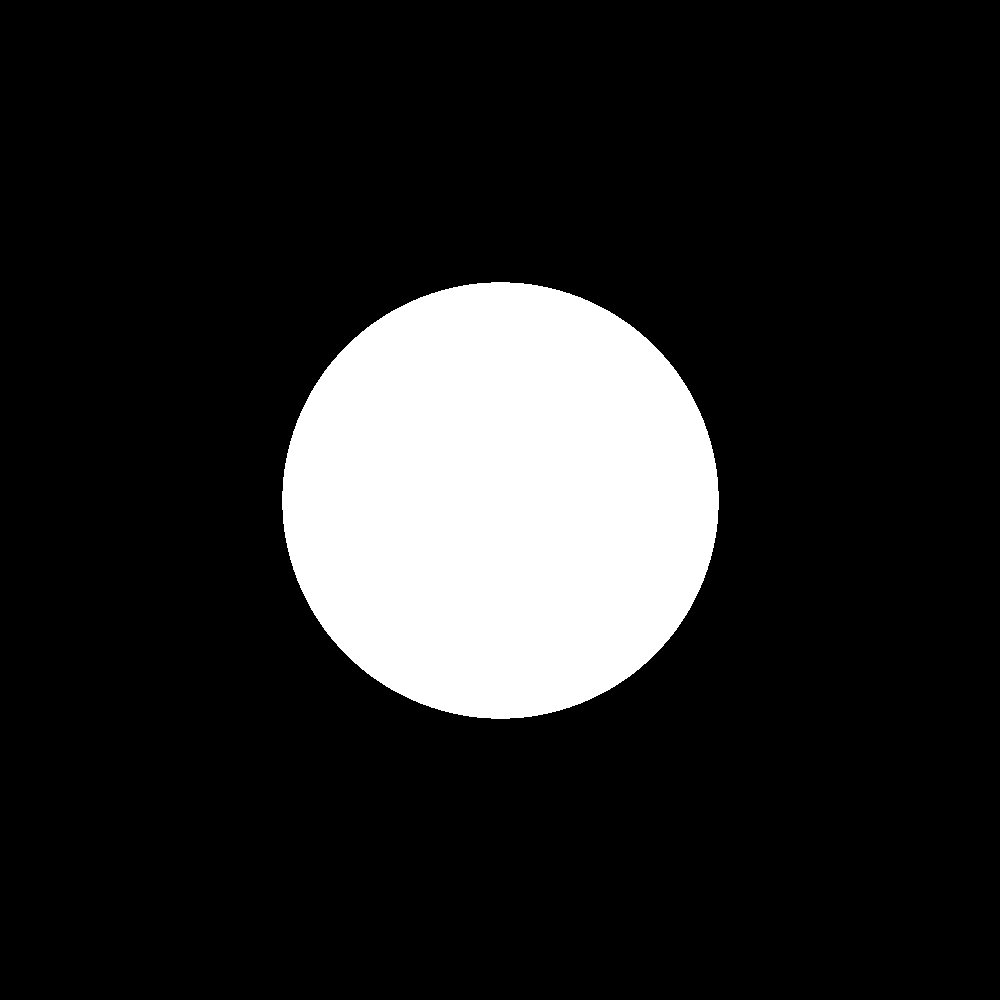
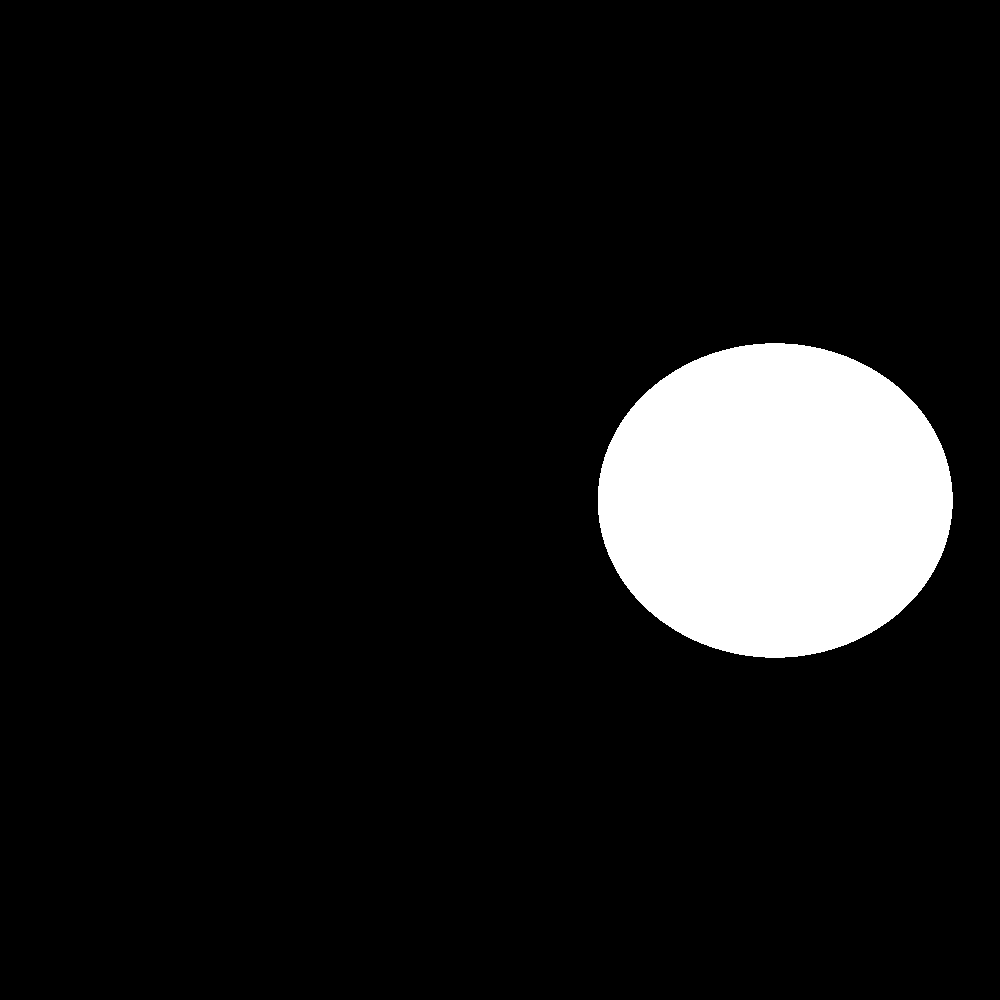
Display images to screen

Changed region(s): [[0.279, 0.279, 0.961, 0.744]]

diff --git a/Rendering.h b/Rendering.h
@@ -4,23 +4,50 @@
 
 #include "Const.h"
 
+#include <Windows.h>
 #include <amp.h>
 using namespace concurrency;
 
-Color* RenderScene() {
-	Color* rgb = (Color*)malloc(px*py*sizeof(Color));
+#include "GL/glut.h"
+#include "GL/freeglut.h"
 
+Color* RenderScene(Color* rgb) {
 	array_view<Color, 2> ColorView(px, py, rgb);
 
 	parallel_for_each(
 		ColorView.extent,
 		[=](index<2> idx) restrict(amp) {
-			Sphere s = Sphere();
-			ColorView[idx[0]][idx[1]] = s.RenderRay(idx);
+			ColorView[idx[0]][idx[1]] = Sphere().RenderRay(idx);
 		}
 	);
 
 	ColorView.synchronize();
 
 	return rgb;
+}
+
+Color* rgb;
+
+void drawFrame()
+{
+	glDrawPixels(px, py, GL_RGBA, GL_UNSIGNED_BYTE, rgb);
+	glutSwapBuffers();
+}
+
+void triggerReDraw() {
+	RenderScene(rgb);
+	std::cout << "New Frame\n";
+	glutPostRedisplay();
+}
+
+void SetupFrame(int argc, char** argv){
+    glutInit(&argc, argv);
+    glutInitWindowSize(px, py);
+    glutInitDisplayMode(GLUT_RGBA | GLUT_DOUBLE);
+    glutCreateWindow("glDrawPixels example");
+
+    glutDisplayFunc(drawFrame);
+	glutIdleFunc(triggerReDraw);
+
+    glutMainLoop();
 }

diff --git a/RayTracing.cpp b/RayTracing.cpp
@@ -1,5 +1,6 @@
 #include "Rendering.h"
 
+
 #define STB_IMAGE_IMPLEMENTATION
 #include "stb_image.h"
 #define STB_IMAGE_WRITE_IMPLEMENTATION
@@ -30,7 +31,11 @@ int main(int argc, char** argv)
 {
 	pick_accelerator();
 
-	Color* rgb = RenderScene();
+	rgb = (Color*)malloc(px * py * sizeof(Color));
 
-	stbi_write_png("image.png", px, px, 4, rgb, 0);
+	//stbi_write_png("image.png", px, px, 4, rgb, 0);
+
+	SetupFrame(argc,argv);
+
+	while (true) { }
 }

diff --git a/Sphere.h b/Sphere.h
@@ -10,9 +10,9 @@ using namespace concurrency;
 
 class Sphere {
 public:
-	float radius = 4;
-	Color color = Color(255, 255, 255);
-	Vec3 Center = Vec3(0, 0, 0);
+	float radius = 3;
+	Color color = Color(255, 0, 255);
+	Vec3 Center = Vec3(5, 0, 0);
 
 	Sphere() {}
 	Sphere() restrict(amp) {}
